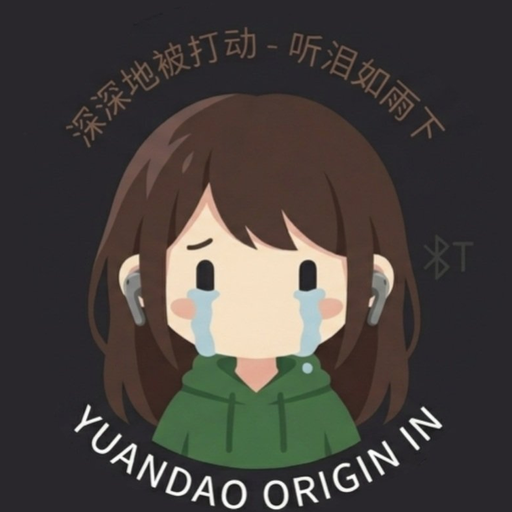
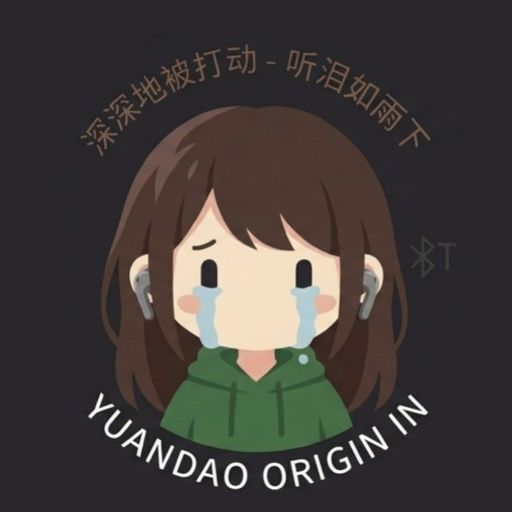
feat(settings): 图标缩放改为 1.2x；点击图标可放大查看原图
- mipmap 全部按 1.2x 重新生成
- 新增 drawable-nodpi/nhck_icon_full.png（原图 1020x1024，nodpi 避免系统密度缩放）
- 点击图标弹出对话框显示完整原图，附「点击图标可放大查看」提示

Changed region(s): [[0.125, 0.0625, 0.875, 1.0], [0.4688, 0.4375, 0.5, 0.4688]]

diff --git a/app/src/main/java/io/github/nhckmelody/SettingsActivity.java b/app/src/main/java/io/github/nhckmelody/SettingsActivity.java
@@ -52,6 +52,20 @@ public class SettingsActivity extends Activity {
 
     /** 把页面内容添加到 XML 布局里的 root 容器。 */
     private void buildUi(LinearLayout root) {
+        // 图标：点击放大查看原图
+        try {
+            View iconView = findViewById(R.id.icon);
+            if (iconView != null) {
+                iconView.setOnClickListener(new View.OnClickListener() {
+                    @Override public void onClick(View v) {
+                        showFullIcon();
+                    }
+                });
+            }
+        } catch (Throwable ignored) {
+            // 图标只是装饰，失败不影响其它内容
+        }
+
         TextView title = new TextView(this);
         title.setText(getString(R.string.app_name));
         title.setTextSize(22f);
@@ -111,6 +125,43 @@ public class SettingsActivity extends Activity {
                 + "adb shell su -c \"pm grant " + getPackageName()
                 + " android.permission.WRITE_SECURE_SETTINGS\"");
         root.addView(adb);
+    }
+
+    /**
+     * 点击图标：放大显示**原图**（未缩放的完整画作）。
+     *
+     * <p>原图作为 {@code drawable-nodpi/nhck_icon_full.png} 打进包里
+     * （nodpi 保证不被系统按密度缩放）。</p>
+     */
+    private void showFullIcon() {
+        try {
+            android.widget.ImageView iv = new android.widget.ImageView(this);
+            iv.setImageResource(R.drawable.nhck_icon_full);
+            iv.setScaleType(android.widget.ImageView.ScaleType.FIT_CENTER);
+            iv.setAdjustViewBounds(true);
+
+            android.widget.FrameLayout box = new android.widget.FrameLayout(this);
+            int pad = dp(6);
+            box.setPadding(pad, pad, pad, pad);
+            box.addView(iv, new android.widget.FrameLayout.LayoutParams(
+                    android.widget.FrameLayout.LayoutParams.MATCH_PARENT,
+                    android.widget.FrameLayout.LayoutParams.WRAP_CONTENT));
+
+            final android.app.AlertDialog dlg = new android.app.AlertDialog.Builder(this)
+                    .setTitle(getString(R.string.app_name))
+                    .setView(box)
+                    .setPositiveButton("关闭", null)
+                    .create();
+            dlg.show();
+            try {
+                int side = (int) (getResources().getDisplayMetrics().widthPixels * 0.92f);
+                dlg.getWindow().setLayout(side, ViewGroup.LayoutParams.WRAP_CONTENT);
+            } catch (Throwable ignored) {
+            }
+        } catch (Throwable t) {
+            Toast.makeText(this, "无法打开原图: " + t.getClass().getSimpleName(),
+                    Toast.LENGTH_SHORT).show();
+        }
     }
 
     /**
